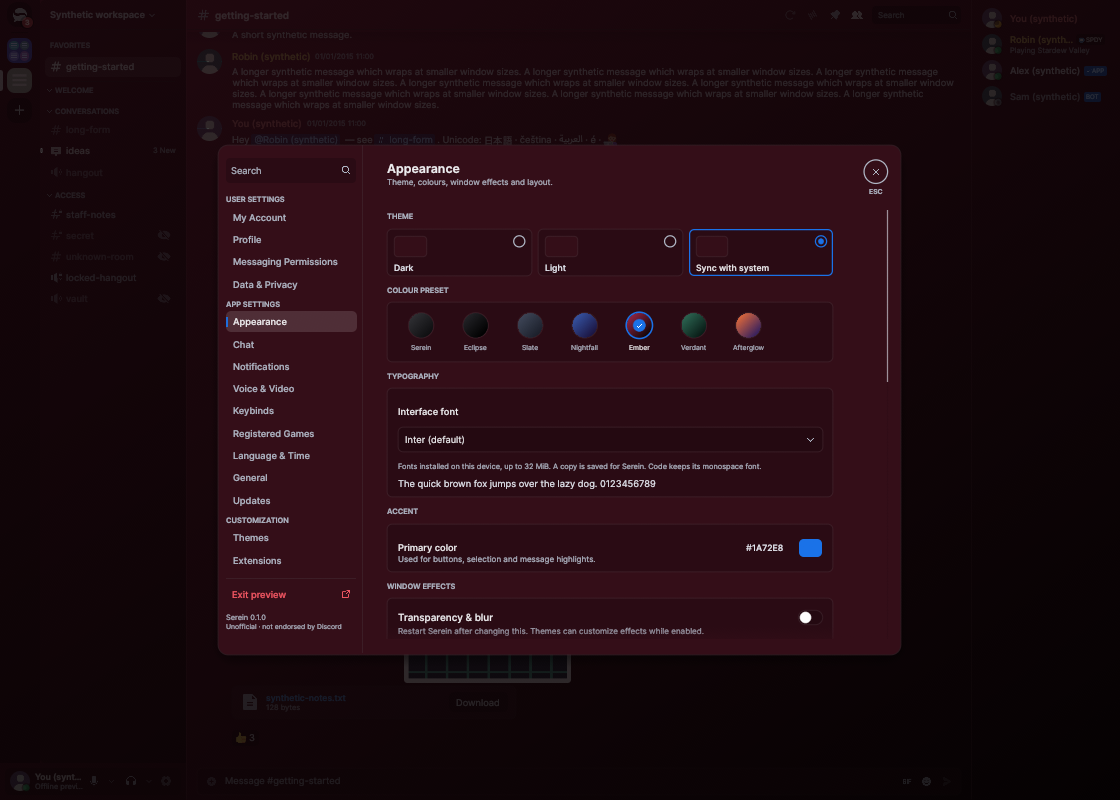
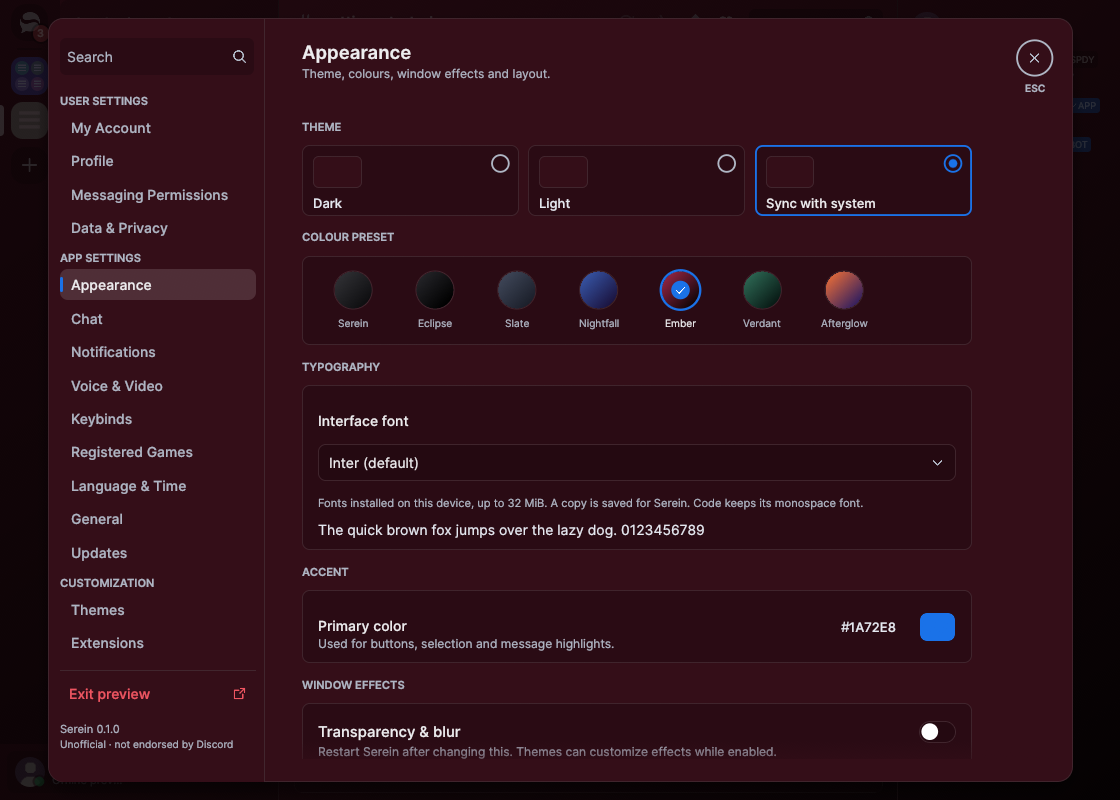
docs(ui): capture border fix at fractional scale

diff --git a/docs/pr-evidence/theme-borders/README.md b/docs/pr-evidence/theme-borders/README.md
@@ -4,20 +4,22 @@ Baseline: `c2842aa7` (clean `main`, matching `origin/main`). Both demo binaries 
 with Rust 1.98.1, `--locked -p serein --features demo`, including voice.
 
 These are native X11 window captures of synthetic `--demo` content on Arch Linux,
-AMD Radeon RX 6900 XT / RADV Vulkan, with `WINIT_X11_SCALE_FACTOR=1` and a 1120 × 800
-client area. No account, network, microphone or capture session was used.
+AMD Radeon RX 6900 XT / RADV Vulkan, with `WINIT_X11_SCALE_FACTOR=0.93`, 100% egui zoom
+and a 1120 × 800 client area. This exercises 0.93 physical pixels per UI point, also
+reachable with 62% zoom and a native DPI factor of 1.5. No account, network, microphone
+or capture session was used.
 
 - `before.png` / `after.png`: `--demo --demo-theme=ember --demo-settings=appearance`,
-  with Appearance → Layout → Zoom entered as **62%**. Settings cards, the font selector,
+  at the effective scale above. The baseline reproduces the bright bottom/right edges;
+  the changed build keeps the borders softly tinted. Settings cards, the font selector,
   preset swatches and the blue selection rings were inspected.
 - `before-stream.png` / `after-stream.png`: native captures cropped to the call controls
-  in `--demo --demo-call-stream --demo-focus`, at **70%** zoom, with the stream hovered.
-  The synthetic stream's placement differs slightly between captures; the control sizes
-  and zoom match.
+  in `--demo --demo-call-stream --demo-focus`, at the same effective scale, with the
+  stream hovered.
 
-The changed light appearance was also inspected at 100% zoom. The user's exact bright-edge
-artifact was not reproduced on this renderer; the comparison demonstrates the surface-tinted
-border treatment, not verification of that specific GPU artifact. No performance improvement
-is claimed. The change composites colors when resolving the palette and building call controls;
-it adds no dependencies, geometry, textures or extra draw calls. Release performance and a
-baseline package-size comparison were not measured for this cosmetic change.
+Additional checks used `WINIT_X11_SCALE_FACTOR=1`: Appearance with the zoom value entered
+as exactly 62%, call controls at 70%, and the changed light appearance at 100%. Those
+integer-native-scale checks did not reproduce the harsh edge. No performance improvement
+is claimed. The change composites colors when resolving the palette and building call
+controls; it adds no dependencies, geometry, textures or extra draw calls. Release
+performance and a baseline package-size comparison were not measured for this cosmetic change.
